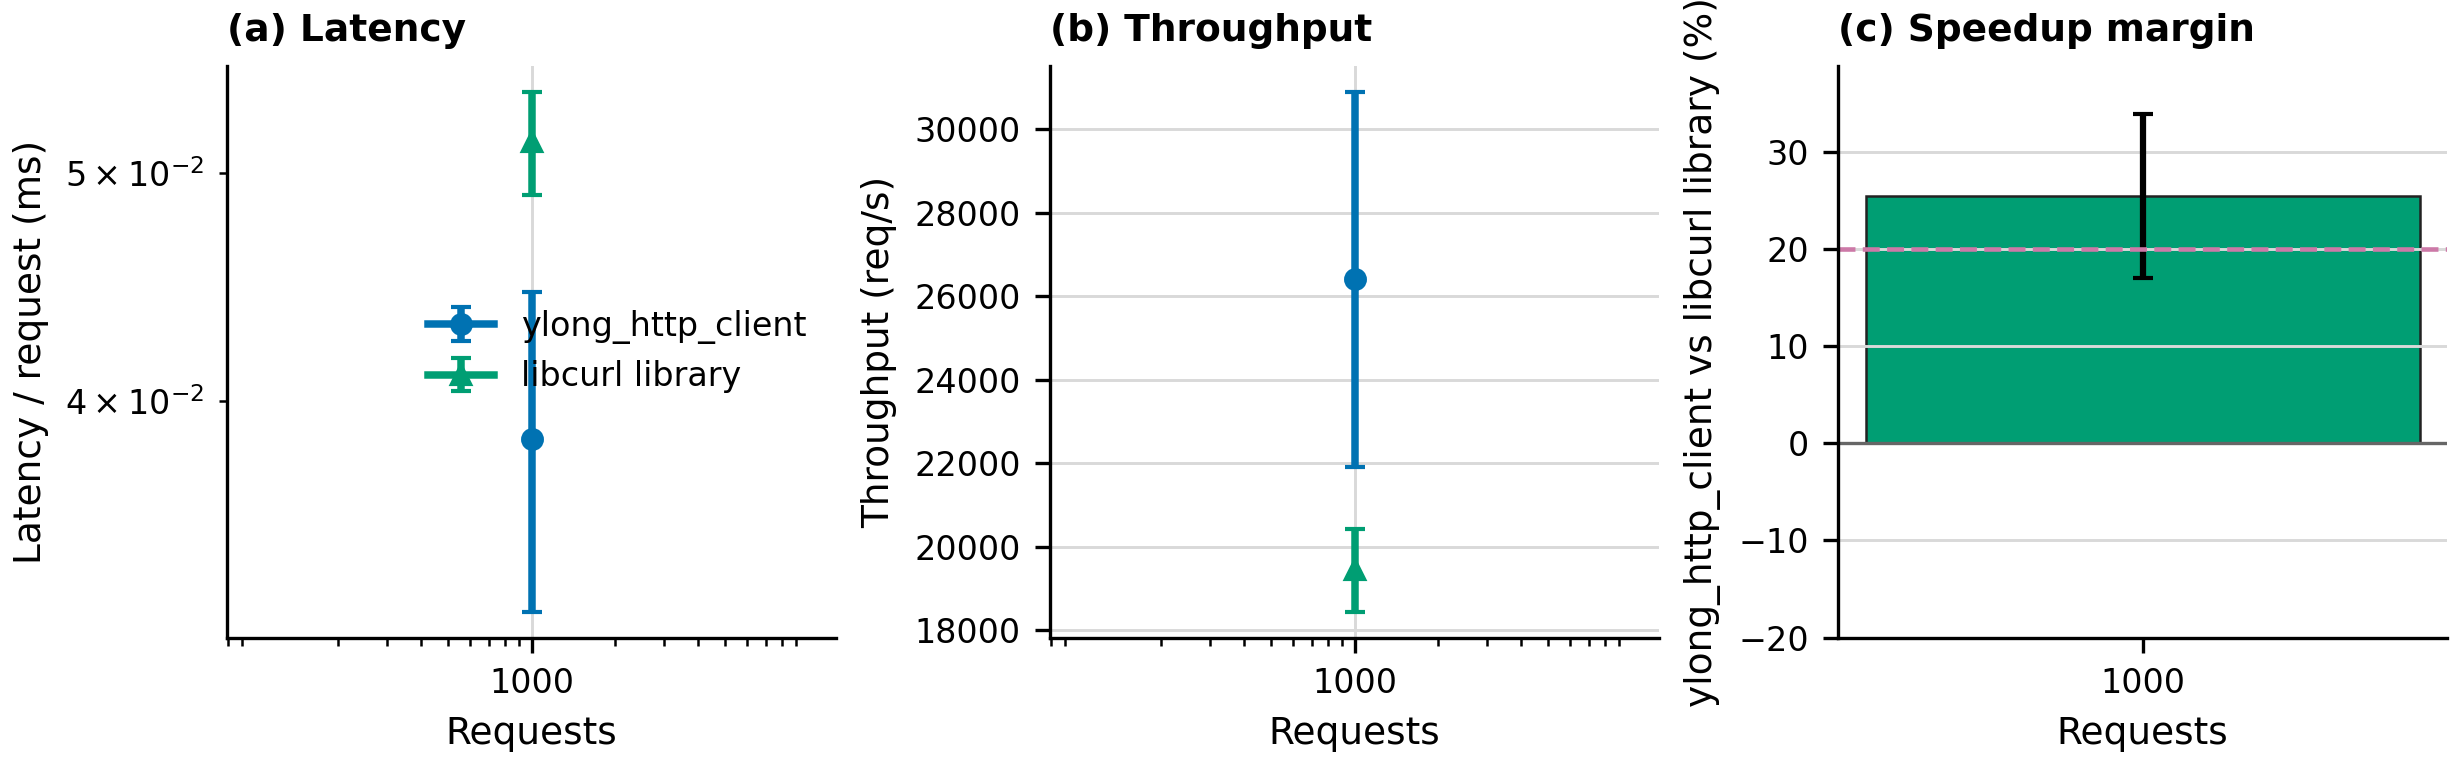
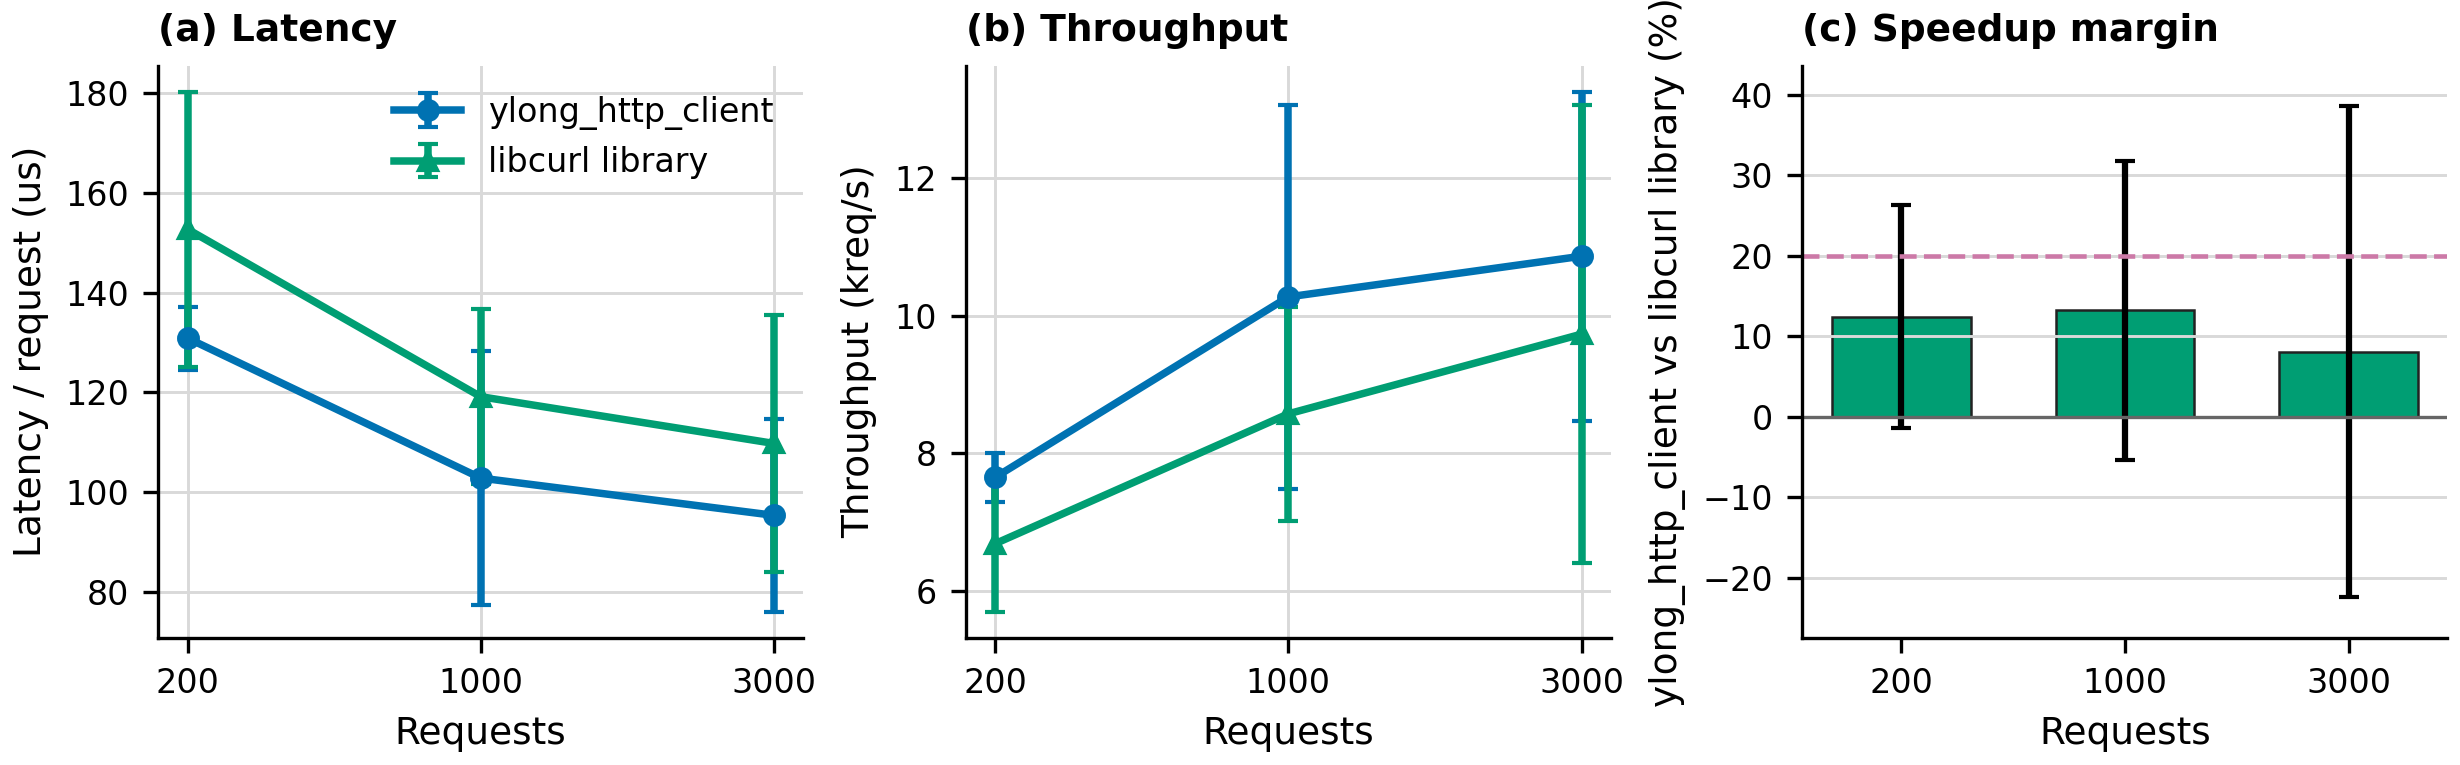
Fix benchmark figure axis formatting

diff --git a/docs/benchmarks/run_https_proxy_bench.py b/docs/benchmarks/run_https_proxy_bench.py
@@ -1808,6 +1808,8 @@ def plot(df: pd.DataFrame, *, figure_dir: Path = FIG_DIR) -> None:
         .sort_values(["requests", "client"])
     )
     requests = sorted(df["requests"].unique())
+    request_labels = [str(item) for item in requests]
+    request_positions = {request: index for index, request in enumerate(requests)}
     baseline = "libcurl" if "libcurl" in set(df["client"]) else "curl_cli"
     ylong_candidate = (
         "ylong_http_client"
@@ -1831,10 +1833,11 @@ def plot(df: pd.DataFrame, *, figure_dir: Path = FIG_DIR) -> None:
         if item in set(df["client"])
     ]:
         part = summary[summary["client"] == client]
+        x = part["requests"].map(request_positions)
         axes[0].errorbar(
-            part["requests"],
-            part["latency_mean"],
-            yerr=part["latency_std"].fillna(0),
+            x,
+            part["latency_mean"] * 1000.0,
+            yerr=part["latency_std"].fillna(0) * 1000.0,
             color=colors[client],
             marker=markers[client],
             linewidth=1.8,
@@ -1843,9 +1846,9 @@ def plot(df: pd.DataFrame, *, figure_dir: Path = FIG_DIR) -> None:
             label=labels[client],
         )
         axes[1].errorbar(
-            part["requests"],
-            part["throughput_mean"],
-            yerr=part["throughput_std"].fillna(0),
+            x,
+            part["throughput_mean"] / 1000.0,
+            yerr=part["throughput_std"].fillna(0) / 1000.0,
             color=colors[client],
             marker=markers[client],
             linewidth=1.8,
@@ -1854,20 +1857,15 @@ def plot(df: pd.DataFrame, *, figure_dir: Path = FIG_DIR) -> None:
             label=labels[client],
         )
 
-    axes[0].set_xscale("log")
-    axes[0].set_yscale("log")
-    axes[0].set_xticks(requests)
-    axes[0].get_xaxis().set_major_formatter(plt.ScalarFormatter())
+    axes[0].set_xticks(range(len(requests)), request_labels)
     axes[0].set_xlabel("Requests")
-    axes[0].set_ylabel("Latency / request (ms)")
+    axes[0].set_ylabel("Latency / request (us)")
     axes[0].grid(True, which="major", axis="both", color="#d9d9d9", linewidth=0.7)
     axes[0].legend(frameon=False, loc="best")
 
-    axes[1].set_xscale("log")
-    axes[1].set_xticks(requests)
-    axes[1].get_xaxis().set_major_formatter(plt.ScalarFormatter())
+    axes[1].set_xticks(range(len(requests)), request_labels)
     axes[1].set_xlabel("Requests")
-    axes[1].set_ylabel("Throughput (req/s)")
+    axes[1].set_ylabel("Throughput (kreq/s)")
     axes[1].grid(True, which="major", axis="both", color="#d9d9d9", linewidth=0.7)
 
     x = np.arange(len(improvement))